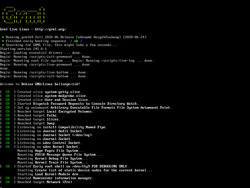
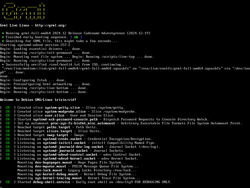
screenshots: Update screenshots for Grml release 2024.12
Screenshots were take via QEMU Monitor, i.e:

  (qemu) screendump bootsplash_efi.png -f png

The screenshot thumbnails were created with:

  % for i in booting.jpg bootsplash_efi.png console.png grml_2024.12.png vesamenu.png ; convert "$i" -resize 250x "${i%.png}.jpg"

grml-info defaults to links2 in framebuffer mode nowadays, updated the
description. Also see: grml/grml-scripts#22

Changed region(s): [[0.0, 0.0266, 1.0, 0.984], [0.028, 0.0, 0.056, 0.0266]]

diff --git a/content/screenshots/index.md b/content/screenshots/index.md
@@ -25,19 +25,21 @@ icon = 'mycomputer'
 
 <a href="console.png"><img style="border: 0" src="console.jpg" alt="Screenshot" /></a><br />
 
-<p>This screenshot shows w3m with image support on a framebuffer device. That's what
-you'll see when running 'grml-info' on the console.</p>
+<p>
+This screenshot shows links2 on a framebuffer device.
+That's what you'll see when running 'grml-info' on the console.
+</p>
 
 <h2><a name="zsh"></a>zsh</h2>
 
 <a href="cdrec.png"><img style="border: 0" src="cdrec.jpg" alt="Screenshot" /></a><br />
 
-<p>This screenshot shows GNU screen running on console using framebuffer
+<p>This (nostalgic) screenshot shows GNU screen running on console using framebuffer
 device with zsh and the completion mechanism of zsh running cdrecord.</p>
 
 <h2><a name="grml"></a>X Window System - fluxbox</h2>
 
-<a href="grml_2022.11.png"><img style="border: 0" src="grml_2022.11.jpg" alt="Screenshot" /></a><br />
+<a href="grml_2024.12.png"><img style="border: 0" src="grml_2024.12.jpg" alt="Screenshot" /></a><br />
 
-<p>This screenshot shows Grml 2022.11 running the X Window system with the <a
+<p>This screenshot shows Grml 2024.12 running the X Window system with the <a
 href="https://fluxbox.sourceforge.net/">fluxbox</a> window manager.</p>
